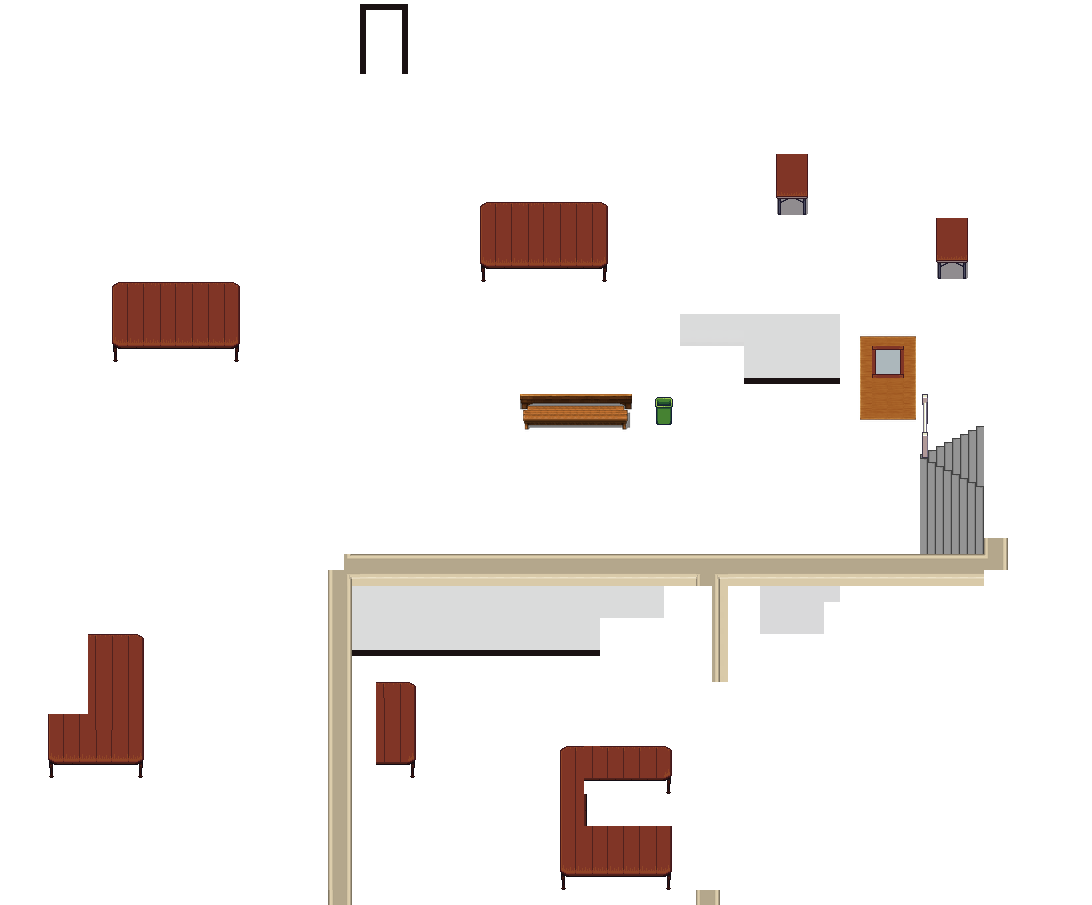
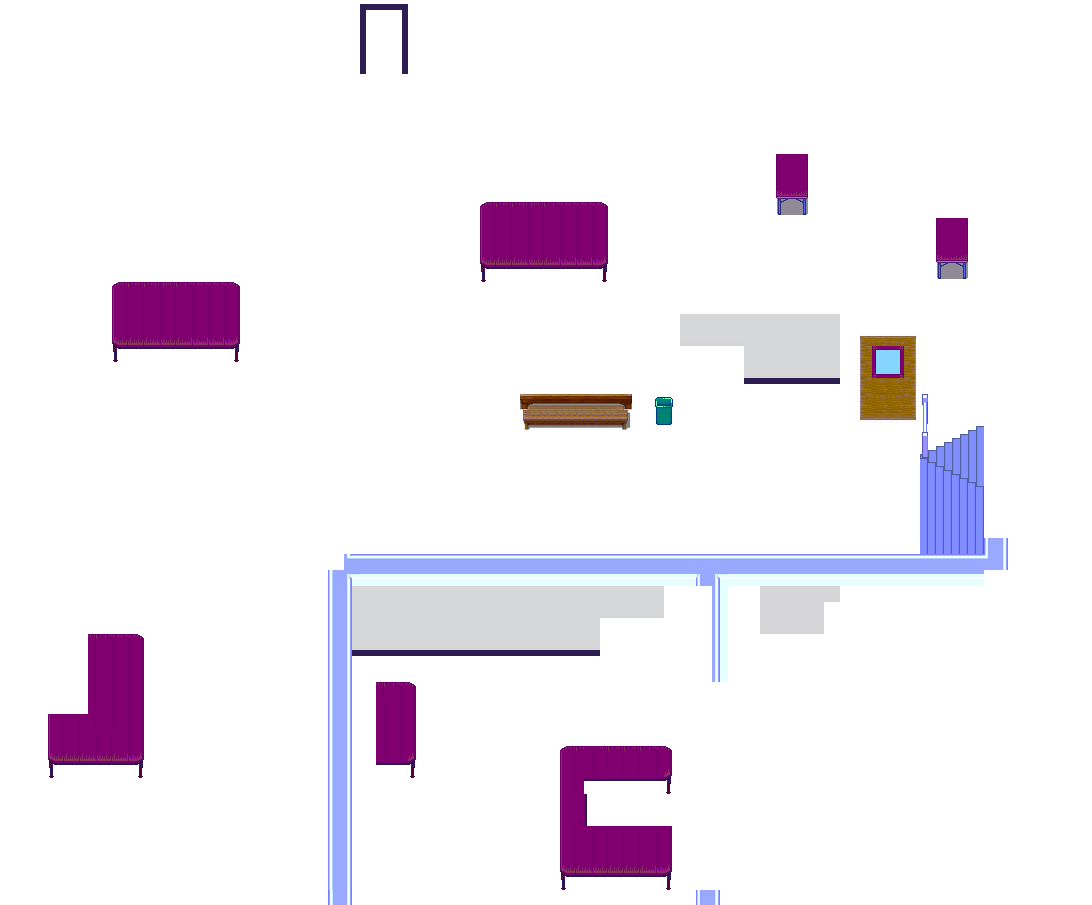
adding table in commission area

diff --git a/scenes/commission_area.js b/scenes/commission_area.js
@@ -54,6 +54,8 @@ export class CommissionArea extends Phaser.Scene {
     this.load.image("paredCentroComisionTesis", "assets/images/commission_area/paredCentroComisionTesis.png");
     this.load.image("paredPuertaMedioComision", "assets/images/commission_area/paredPuertaMedioComision.png");
     this.load.image("accesorios", "assets/images/commission_area/accesorios.png");
+    this.load.image("table01", "assets/images/accessories/table/table01.png");
+    this.load.image("table02", "assets/images/accessories/table/table02.png");
 
 
   }
@@ -80,7 +82,7 @@ export class CommissionArea extends Phaser.Scene {
     crearPlataforma(625, 790, "paredVerticalMedioComision", plataformas);
     crearPlataforma(1306, 208, "paredIzquierdaComision", plataformas);
     crearPlataforma(1128, 194, "paredCentroComisionTesis", plataformas);
-    crearPlataforma(1254, 532, "escaleraComision", plataformas);
+   let escaleraComision = crearPlataforma(1254, 532, "escaleraComision", plataformas);
 
 
     crearPlataforma(687, 72, "puertaSurComision", plataformas);
@@ -117,17 +119,23 @@ export class CommissionArea extends Phaser.Scene {
 
     let paredCentro2comision = crearPlataforma(845, 395, "paredCentro2comision", plataformasMedio);
     let paredCentro2Overlap = crearPlataforma(845, 395, "paredCentro2comision", plataformasOverlap);
-
+    
     crearPlataforma(930, 182, "paredMedioComision", plataformasMedio);
     let paredMedioOverlap = crearPlataforma(930, 182, "paredMedioComision", plataformasOverlap);
+    let mesa01 = crearPlataforma(834, 283, "table01", plataformasMedio);
+    let mesa01Overlap = crearPlataforma(834, 283, "table01", plataformasOverlap);
+    let mesa02 = crearPlataforma(450, 350, "table01", plataformasMedio);
+    let mesa02Overlap = crearPlataforma(450, 350, "table01", plataformasOverlap);
+    let mesaT01 = crearPlataforma(900, 850, "table02", plataformasMedio);
+    let mesaT01Overlap = crearPlataforma(900, 850, "table02", plataformasOverlap);
     this.avatar = new Avatar(this, window.avatarX, window.avatarY, 1.5);
-
-
+    
+    
     let areaPractica = crearPlataforma(994, 339, "paredCentro2Norcomision", puertaOverlap1)
-
+    
     let secretaria = crearPlataforma(923, 630, "puertaParedNorCentro3Comision", puertaOverlap2)
-
-    this.add.image(836, 494, "accesorios");
+    
+    // this.add.image(836, 494, "accesorios");
     
     
     if (activeVideo) {
@@ -174,10 +182,9 @@ export class CommissionArea extends Phaser.Scene {
     dimesionesPlataforma(plataformasNorte, 0.2, 40);
 
 
-    window.avatarX = this.avatar.avatarPlayer.x;
-    window.avatarY = this.avatar.avatarPlayer.y;
 
 
+createButtonCircle(this, "mainHallway1", escaleraComision,1050, 780);
 
 
 
@@ -186,10 +193,12 @@ export class CommissionArea extends Phaser.Scene {
     dimesionesPlataformaIndividual(paredCentro2Izquierdacomision, 0.1, 120);
     dimesionesPlataformaIndividual(paredCentro3Comision, 0.1, 120);
     dimesionesPlataformaIndividual(paredCentro2Izcomision, 0.1, 120);
+    dimesionesPlataformaIndividual(mesa01, 0.3, 60);
+    dimesionesPlataformaIndividual(mesa02, 0.3, 60);
+    dimesionesPlataformaIndividual(mesaT01, 0.6, 50);
     // dimesionesPlataformaIndividual(paredMedio, 0.2, 40);
 
-    //   createButtonCircle(this, "hallway2", escaleraX, 500, 500);
-    //   createButtonCircle(this, "aula", escritorioD, 800, 500);
+
 
     this.physics.add.overlap(this.avatar.avatarPlayer, plataformasOverlap, () => {
       overlapPlataforma(this, paredMedioOverlap);
@@ -197,6 +206,9 @@ export class CommissionArea extends Phaser.Scene {
       overlapPlataforma(this, paredCentro2IzquierdacomisionOverlap);
       overlapPlataforma(this, paredCentro3ComisionOverlap);
       overlapPlataforma(this, paredCentro2IzcomisionOverlap);
+      overlapPlataforma(this, mesa01Overlap);
+      overlapPlataforma(this, mesa02Overlap);
+      overlapPlataforma(this, mesaT01Overlap);
     }, null, this);
 
     this.physics.add.overlap(this.avatar.avatarPlayer, puertaOverlap1, () => {
